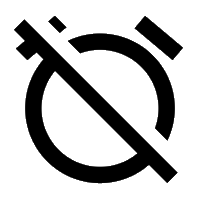
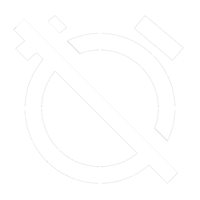
GUI segment setting

diff --git a/src/main/java/view/MainTemplate.java b/src/main/java/view/MainTemplate.java
@@ -30,7 +30,7 @@ public class MainTemplate extends JFrame{
     public void alarmFriday(){}                                      //17: Alarm 금
     public void alarmSaturday(){}                                    //18: Alarm 토
     public void alarmNumber(){}                                      //19: Alarm 번호 (시계 좌하단)
-    public void showAlarming(){}                                     //20: Alarm이 표시될 때 전부 (하나로 통합하고, 이걸 한번에 보여줌
+    public void showAlarming(){}                                     //20: showAlarming이 표시될 때 사진 (20+33+34+35)
     public void strings1(){}                                         //21: global time의 내도시 / 추천 수면시간 / 목표 기상시각
     public void strings2(){}                                         //22: global time의 내도시 시간 (시간제 포함) / 추천 수면시간1 / 목표 기상시각
     public void cityorsleepingwakeuptimedata1(){}                    //23: global time의 남의도시 / 추천 수면시각2 / 최대 수면시간
@@ -43,6 +43,9 @@ public class MainTemplate extends JFrame{
     public void icon4(){}                                            //30: 아이콘4
     public void icon5(){}                                            //31: 아이콘5
     public void icon6(){}                                            //32: 아이콘6 (제일 우측)
+                                                                     //33: showAlarming이 표시될 때의 날짜
+                                                                     //34: showAlarming이 표시될 때의 시간제
+                                                                     //35: showAlarming이 표시될 때의 시간
     interface DisplayAction{ void display(); }
     private DisplayAction[] displays = new DisplayAction[]{
             new DisplayAction() { public void display() { timeKeepingYear();                            } },
@@ -108,14 +111,16 @@ public class MainTemplate extends JFrame{
 
 
     // Icons
-    String[] iconNames = { "timekeeping_inactive", "timer_inactive", "stop_watch_inactive", "alarm_inactive",
-            "global_time_inactive", "sleeping_time_inactive" };
+    String[] iconNames = { "timekeeping_active", "timer_active", "stop_watch_active", "alarm_active",
+            "global_time_active", "sleeping_time_active" };
     ImageIcon[] icons;
     JLabel[] labelIcons;
 
     //Event Listener
     MyMouseEvent myMouseEvent = new MyMouseEvent("TEST");
 
+    // Segments
+    JLabel[] segments;
 
 
 
@@ -163,6 +168,8 @@ public class MainTemplate extends JFrame{
 
         innerPanel.setVisible(true);
 
+        /*
+
         JLabel date = new JLabel("20 05 03 (SUN)");
 
         date.setLayout(null);
@@ -173,7 +180,8 @@ public class MainTemplate extends JFrame{
         date.setSize(200,50);
         date.setVisible(true);
 
-        innerPanel.add(date);
+
+         */
 
 
 
@@ -233,6 +241,15 @@ public class MainTemplate extends JFrame{
 
     }
 
+    // setBound(x,y,width, height), font(bold(1), size), setSize(width, height), label
+    public int[][] jLabelData = new int[][]{
+            {60, 20, 50, 50, 25, 50, 50},
+            {100, 20, 50, 50, 25, 50, 50},
+            {140, 20, 50, 50, 25, 50, 50},
+            {180, 20, 50, 50, 25, 50, 50},
+
+    };
+
     public void setOuterPanel(){
 
         outerPanel.setLayout(null);
@@ -254,6 +271,84 @@ public class MainTemplate extends JFrame{
         }
     }
 
+    public void setSegments(){
+        this.segments = new JLabel[36];
+        for(int i = 0 ; i < 36 ; i++){
+            segments[i] = new JLabel();
+            segments[i].setLayout(null);
+            segments[i].setForeground(Color.WHITE);
+            segments[i].setFont(new Font("NanumSquare", Font.BOLD, 15));
+            segments[i].setVisible(true);
+
+        }
+
+        /*
+        segments[5].setText("04");
+        segments[5].setBounds(70, 80, 150, 150);
+        segments[5].setFont(segments[0].getFont().deriveFont(50.f));
+        segments[5].setSize(150,150);
+
+        segments[6].setText("49");
+        segments[6].setBounds(140, 80, 150, 150);
+        segments[6].setFont(segments[0].getFont().deriveFont(50.f));
+        segments[6].setSize(150,150);
+
+        segments[7].setText("49");
+        segments[7].setBounds(205, 140, 40, 40);
+        segments[7].setFont(segments[0].getFont().deriveFont(30.f));
+        segments[7].setSize(40,40);
+         */
+
+        /*
+        JLabel[] labels = {new JLabel("뉴옥"), new JLabel("마이애미"), new JLabel("토론토")};
+
+        for(int i = 0 ; i < 3 ; i++){
+            labels[i].setSize(50,50);
+            labels[i].setVisible(true);
+            labels[i].setForeground(Color.WHITE);
+            labels[i].setFont(new Font("NanumSquare", Font.BOLD, 15));
+            labels[i].setBounds(10, 10+(i*20), 100, 50);
+            labels[i].setSize(100,50);
+            segments[21].add(labels[i]);
+        }
+        */
+
+        segments[21].setText("<html>뉴옥<br>마이애미<br>토론토</html>");
+        segments[21].setSize(40,40);
+        segments[21].setFont(segments[0].getFont().deriveFont(15.f));
+        segments[21].setBounds(20, 30, 100, 150);
+
+        segments[22].setText("<html><span style='font-size: 20px;'>AM &nbsp</span><span style='font-size: 30px;'>03:01</span></html>");
+        segments[22].setSize(200,40);
+        segments[22].setFont(segments[0].getFont().deriveFont(20.f));
+        segments[22].setBounds(90, 85, 200, 40);
+
+        segments[23].setText("<html>서울<br>도쿄<br>제주</html>");
+        segments[23].setSize(40,40);
+        segments[23].setFont(segments[0].getFont().deriveFont(15.f));
+        segments[23].setBounds(20, 100, 100, 150);
+
+        segments[24].setText("<html><span style='font-size: 20px;'>PM &nbsp</span><span style='font-size: 30px;'>01:01</span></html>");
+        segments[24].setSize(200,40);
+        segments[24].setFont(segments[0].getFont().deriveFont(20.f));
+        segments[24].setBounds(90, 155, 200, 40);
+
+
+        /*
+        innerPanel.add(segments[5]);
+        innerPanel.add(segments[6]);
+        innerPanel.add(segments[7]);
+         */
+
+        innerPanel.add(segments[21]);
+        innerPanel.add(segments[22]);
+        innerPanel.add(segments[23]);
+        innerPanel.add(segments[24]);
+
+
+
+    }
+
     public void initTemplate(){
         getContentPane().setBackground(Color.WHITE);
         getContentPane().add(outerPanel);
@@ -262,6 +357,7 @@ public class MainTemplate extends JFrame{
         setOuterPanel();
         setInnerPanel();
         setButtons();
+        setSegments();
 
         outerPanel.add(innerPanel);
 
@@ -277,10 +373,6 @@ public class MainTemplate extends JFrame{
     public MainTemplate() {
         super("Sleepy Clock");
         initTemplate();
-    }
-
-    public void display(String[] flags){
-        //면에 표시하는 부분
     }
 
 }
